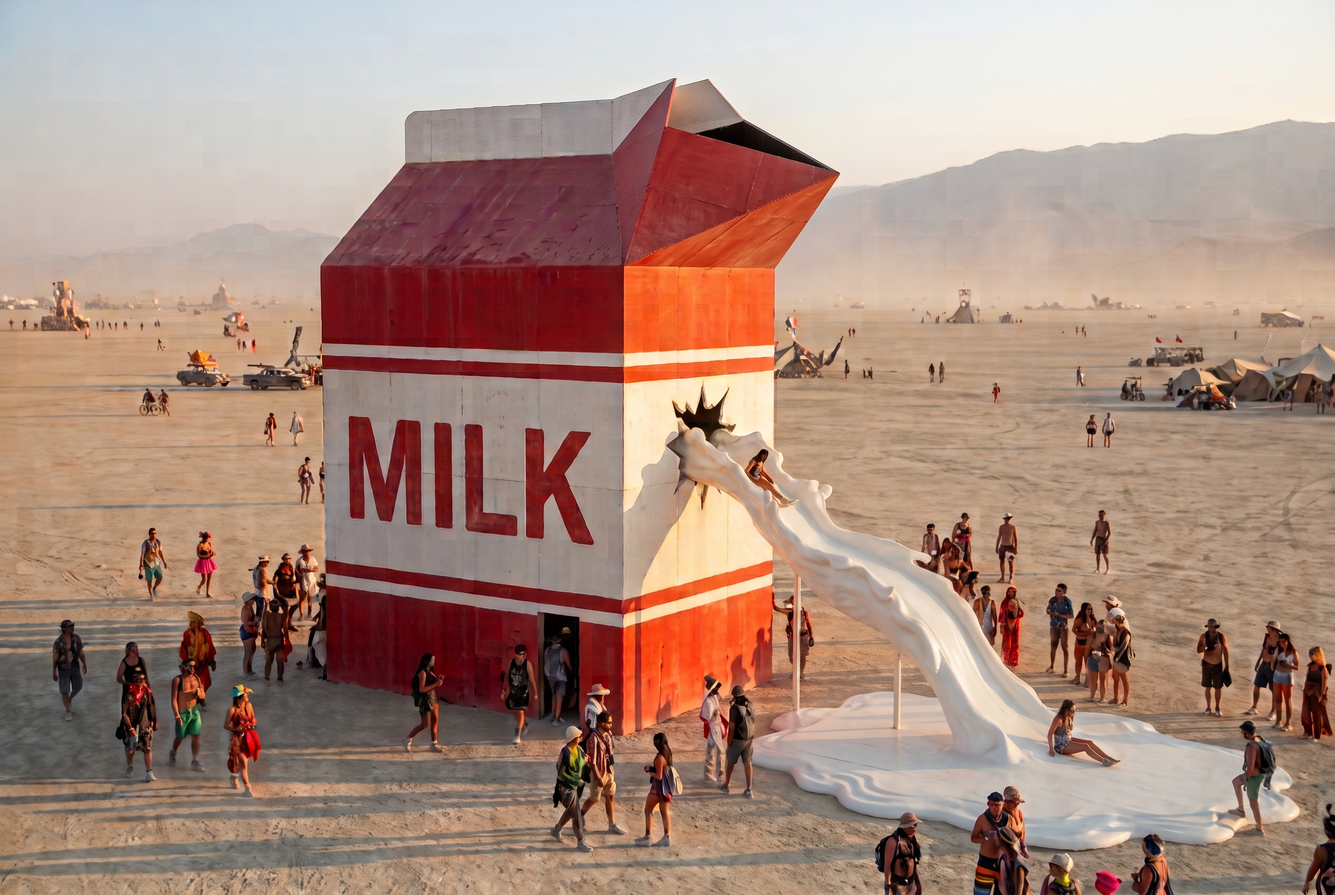
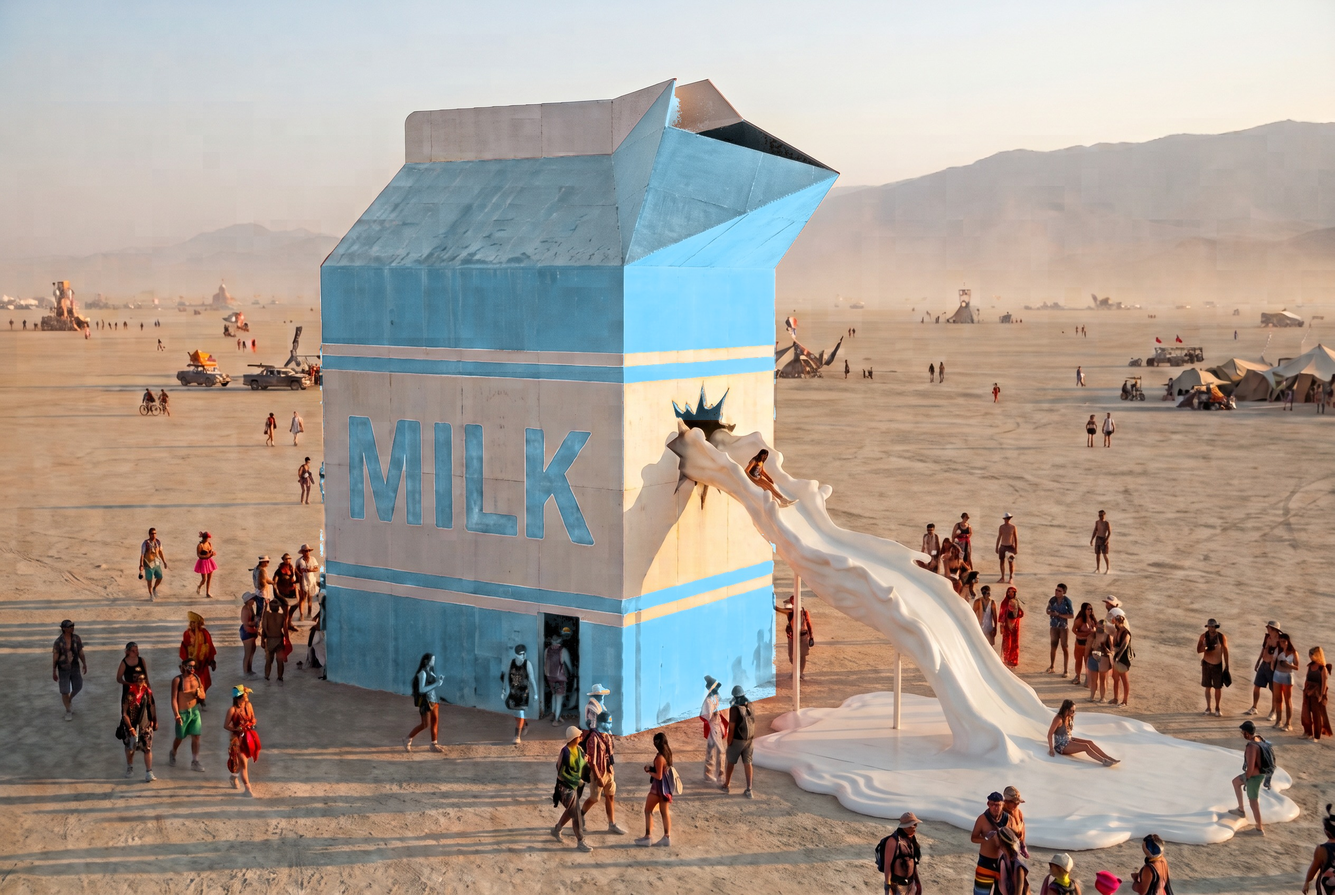
Switch the carton colours to baby blue and white
Recoloured the concept render and updated the image prompt and design notes.

Claude-Session: https://claude.ai/code/session_01BhQSVgCDAaZsKwAQG1wxra

Changed region(s): [[0.2188, 0.0938, 0.625, 0.4688], [0.2188, 0.625, 0.5938, 0.8438], [0.25, 0.4688, 0.4688, 0.625]]

diff --git a/docs/image-prompts.md b/docs/image-prompts.md
@@ -1,6 +1,6 @@
 # Image prompts (for Gemini and other generators)
 
-Current design: the upright carton, classic red and white, with the slide coming out of a
+Current design: the upright carton, baby blue and white, with the slide coming out of a
 tear in the spout-end wall. Numbers come from `config/default.json`
 (see `outputs/report.md`).
 
@@ -31,8 +31,8 @@ and proportions only, not the colours"). Then change one thing at a time in foll
 > toward the spout tip. The whole diamond-shaped top of the spout is open, facing up at the
 > sky, dark inside.
 >
-> COLOURS: Classic retro red-and-white milk carton. The walls are crisp white with bold red
-> panels and bands; the roof panels and fin are red. The long side carries large, simple,
+> COLOURS: Retro baby-blue-and-white milk carton. The walls are crisp white with soft
+> baby blue (pale sky blue) panels and bands; the roof panels and fin are baby blue. The long side carries large, simple,
 > retro lettering that says "MILK". No brand names, logos, or other text.
 >
 > THE SLIDE: About a third of the way up the narrow spout-end wall (around 12 feet up),
@@ -60,7 +60,7 @@ and proportions only, not the colours"). Then change one thing at a time in foll
 
 > Photorealistic: a 40 ft tall wooden milk carton art installation standing upright on the
 > Burning Man playa at golden hour. One-gallon proportions (25 x 19 ft footprint, tall walls,
-> short gable roof with a thin fin). Classic retro red-and-white carton paint with big "MILK"
+> short gable roof with a thin fin). Retro baby-blue-and-white carton paint with big "MILK"
 > lettering, no brands. The spout on one narrow end is pulled open like a real carton, its
 > tip just above the fin, the diamond-shaped top open to the sky. About 12 ft up that end
 > wall, a jagged tear gushes glossy white milk that becomes a sculpted white wooden slide

diff --git a/docs/design-decisions.md b/docs/design-decisions.md
@@ -15,7 +15,7 @@ a yes or no. **Open** means it is still undecided (see `open-questions.md`).
   fin. The whole diamond on top of the spout is the opening. It is open for the look.
 - **Decided.** No wrap-around slide. The slide comes out of a tear in the spout-end wall at
   the 12 ft landing and runs straight out (about 32 ft, steepest 30 degrees) into a puddle.
-- **Decided.** Classic red-and-white milk carton colours (replaces blue and white).
+- **Decided.** Baby blue and white milk carton colours (replaces the earlier red and white).
 - **Assumed.** The roof/fin split was read off a reference picture; spout tip 4.8 ft out and
   1.4 ft above the fin, crease positions scaled up from Allison's sketch.
 - **Assumed.** Spiral stairs 4.5 ft clear at 31 degrees, landings at every corner plus one
